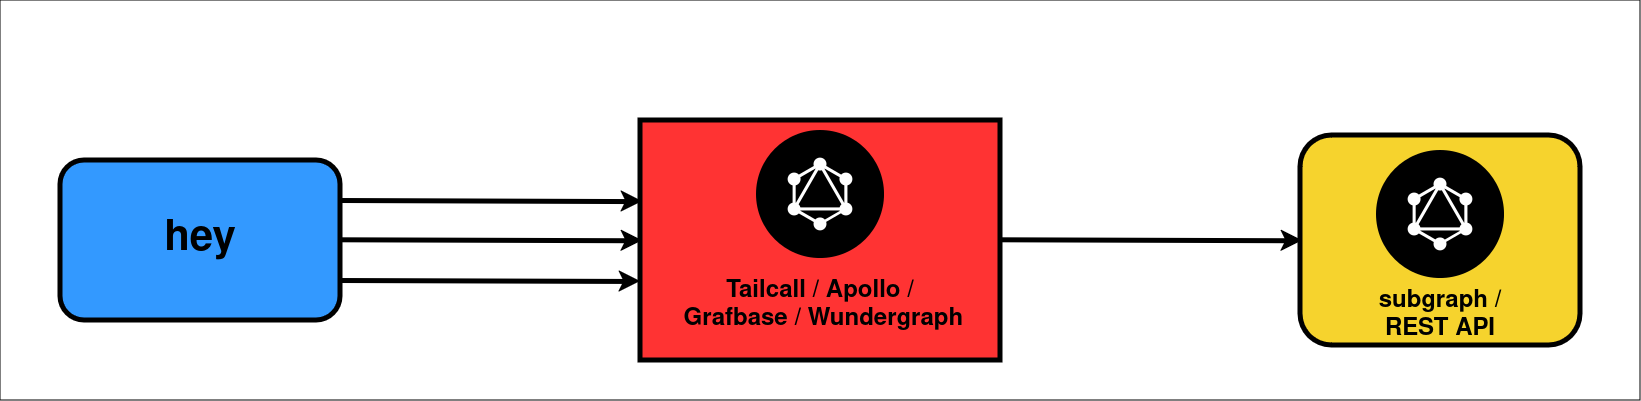
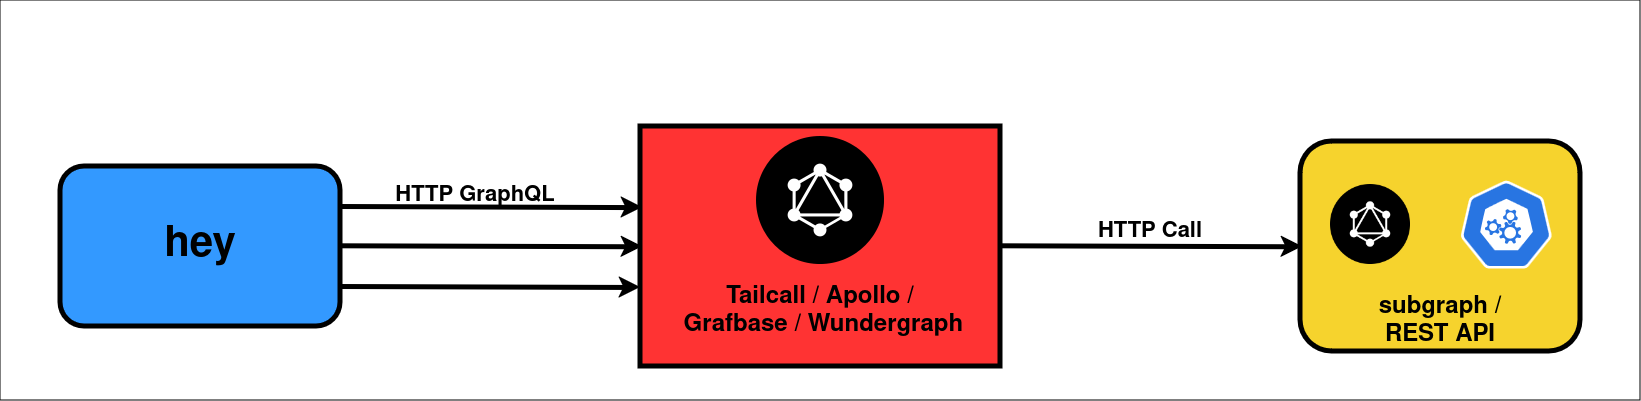
refactor: add more info inf README.md * fix runners group id * update cargo.lock

diff --git a/README.md b/README.md
@@ -46,6 +46,12 @@ sudo docker run tailcallhq/federation-benchmark:latest ./benchmark_all.sh
 
 ![image info](./files/diagram.png)
 
+### Components
+
+* `hey`: We use `hey` cli benchmarking tool to cause synthetic load in order to benchmark the `router` component. We benchmark for `10 seconds` using `200 threads` using `POST` method with graphql payload. The settings for the benchmarks are in the `bench-hey-**.json` files.
+* `router`: This is the component we are targeting to benchmark. We use a collection of different federation implementation with different settings to have a comprehensive comparison.
+* `subgraph`: This component is used to provide data to the `router` component. It mimics a GraphQL subgraph, but in reality it serves a static response. We do that so we can eliminate any overheads that are caused by processing the request in a real GraphQL subgraph.
+
 ### Query
 
 For both `big` and `medium` we use the following query. It provides a deeply nested structure, and with different response payloads it can be a challenge on some federation implementations to parse it.
